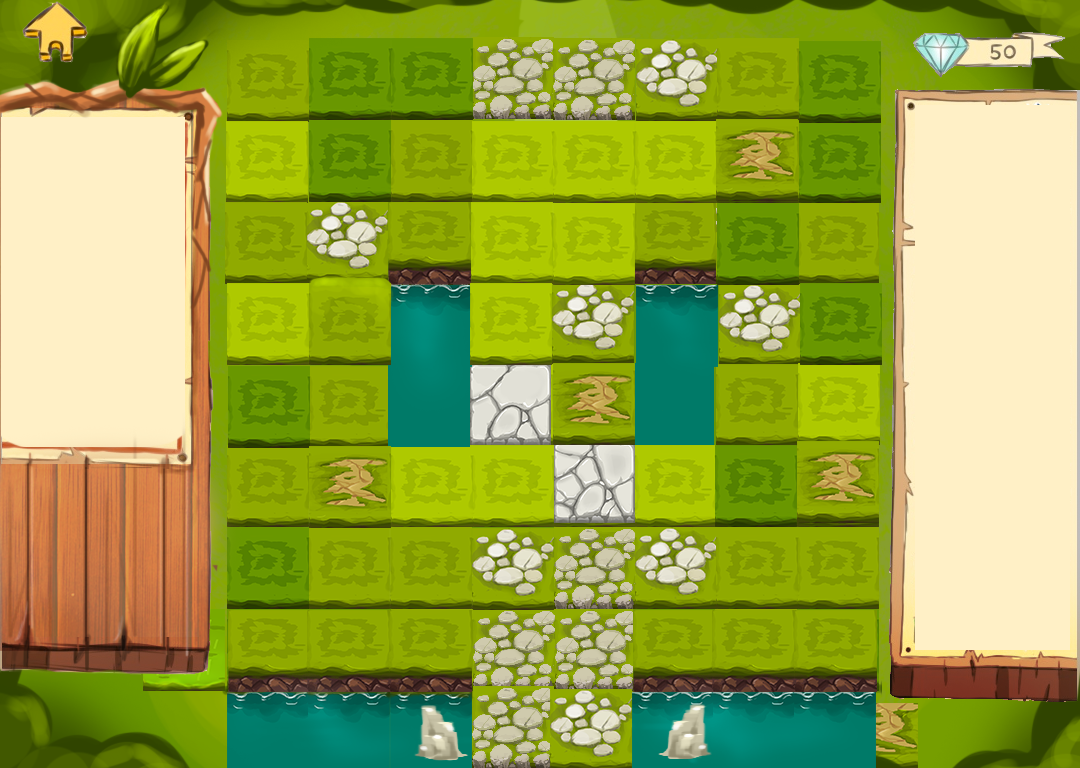
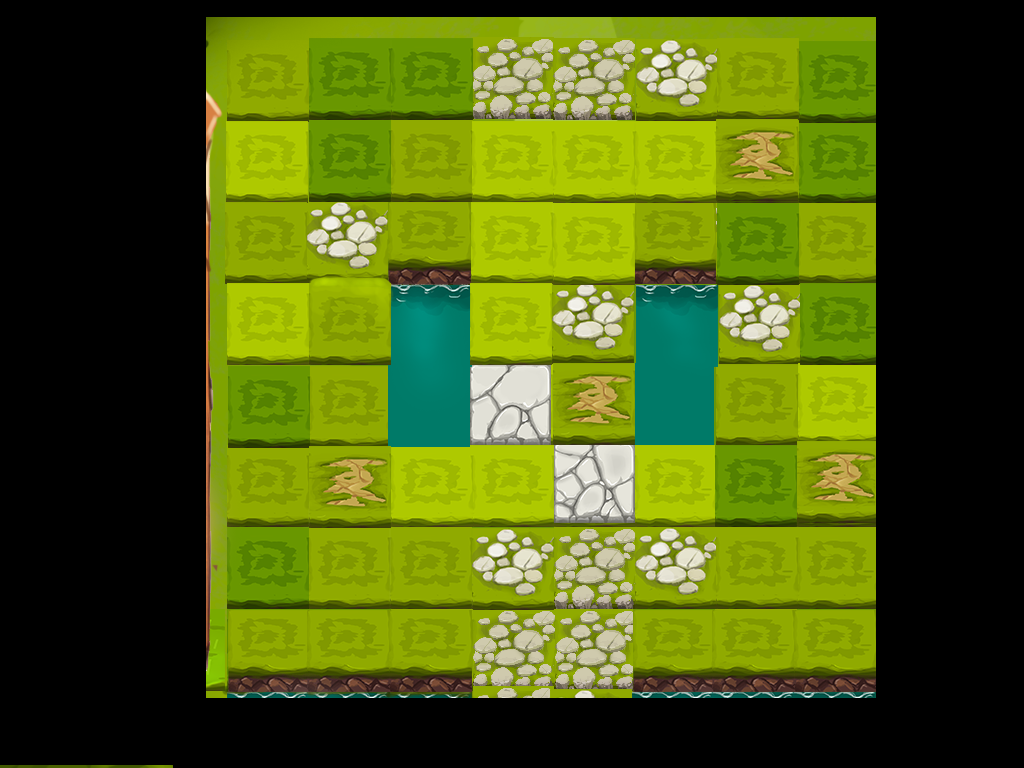
Added backgroudn art, Drag completed

diff --git a/Proeve/States/ArmyEditorState.cs b/Proeve/States/ArmyEditorState.cs
@@ -18,14 +18,29 @@ namespace Proeve.States
     {
         private bool drag;
         private int dragIndex;
+        private E2DTexture background;
+
+        private Point gridLocation;
+        private int gridWidth, gridHeight;
+        private Rectangle GridArea { get { return new Rectangle(gridLocation.X, gridLocation.Y, gridWidth * Globals.TILE_WIDTH, gridHeight * Globals.TILE_HEIGHT); } }
 
         public ArmyEditorState()
         {
-
+            
         }
 
         public override void Initialize()
         {
+            dragIndex = -1;
+            drag = false;
+
+            gridWidth = Globals.GRID_WIDTH;
+            gridHeight = 3;
+
+            gridLocation = new Point(Globals.GridLocation.X, Globals.GridLocation.Y + Globals.TILE_HEIGHT * 5);
+
+            background = ArtAssets.editorBackground;
+
             Armies.army = new List<Character>();
             Armies.army.Add(Armies.GetCharacter(Armies.CharacterRanks.Marshal));
             Armies.army.Add(Armies.GetCharacter(Armies.CharacterRanks.General));
@@ -38,19 +53,16 @@ namespace Proeve.States
             Armies.army.Add(Armies.GetCharacter(Armies.CharacterRanks.Bomb));
             Armies.army.Add(Armies.GetCharacter(Armies.CharacterRanks.Bomb));
 
-            Armies.army[0].Position = Grid.ToPixelLocation(new Point(0, 0), new Point(50, 50), new Point(82, 82)).ToVector2();
-            Armies.army[1].Position = Grid.ToPixelLocation(new Point(1, 0), new Point(50, 50), new Point(82, 82)).ToVector2();
-            Armies.army[2].Position = Grid.ToPixelLocation(new Point(2, 0), new Point(50, 50), new Point(82, 82)).ToVector2();
-            Armies.army[3].Position = Grid.ToPixelLocation(new Point(3, 0), new Point(50, 50), new Point(82, 82)).ToVector2();
-            Armies.army[4].Position = Grid.ToPixelLocation(new Point(4, 0), new Point(50, 50), new Point(82, 82)).ToVector2();
-            Armies.army[5].Position = Grid.ToPixelLocation(new Point(5, 0), new Point(50, 50), new Point(82, 82)).ToVector2();
-            Armies.army[6].Position = Grid.ToPixelLocation(new Point(6, 0), new Point(50, 50), new Point(82, 82)).ToVector2();
-            Armies.army[7].Position = Grid.ToPixelLocation(new Point(7, 0), new Point(50, 50), new Point(82, 82)).ToVector2();
-            Armies.army[8].Position = Grid.ToPixelLocation(new Point(0, 1), new Point(50, 50), new Point(82, 82)).ToVector2();
-            Armies.army[9].Position = Grid.ToPixelLocation(new Point(1, 1), new Point(50, 50), new Point(82, 82)).ToVector2();
-
-            dragIndex = -1;
-            drag = false;
+            Armies.army[0].Position = Grid.ToPixelLocation(new Point(0, 0), gridLocation, Globals.TileDimensions).ToVector2();
+            Armies.army[1].Position = Grid.ToPixelLocation(new Point(1, 0), gridLocation, Globals.TileDimensions).ToVector2();
+            Armies.army[2].Position = Grid.ToPixelLocation(new Point(2, 0), gridLocation, Globals.TileDimensions).ToVector2();
+            Armies.army[3].Position = Grid.ToPixelLocation(new Point(3, 0), gridLocation, Globals.TileDimensions).ToVector2();
+            Armies.army[4].Position = Grid.ToPixelLocation(new Point(4, 0), gridLocation, Globals.TileDimensions).ToVector2();
+            Armies.army[5].Position = Grid.ToPixelLocation(new Point(5, 0), gridLocation, Globals.TileDimensions).ToVector2();
+            Armies.army[6].Position = Grid.ToPixelLocation(new Point(6, 0), gridLocation, Globals.TileDimensions).ToVector2();
+            Armies.army[7].Position = Grid.ToPixelLocation(new Point(7, 0), gridLocation, Globals.TileDimensions).ToVector2();
+            Armies.army[8].Position = Grid.ToPixelLocation(new Point(0, 1), gridLocation, Globals.TileDimensions).ToVector2();
+            Armies.army[9].Position = Grid.ToPixelLocation(new Point(1, 1), gridLocation, Globals.TileDimensions).ToVector2();
         }
 
         public override void Update(GameTime gameTime)
@@ -65,7 +77,27 @@ namespace Proeve.States
 
             if (Globals.mouseState.LeftButtonReleased && drag)
             {
-                Armies.army[dragIndex].Position = Grid.ToGridLocation(Globals.mouseState.Position.ToPoint(), new Point(50, 50), new Point(82, 82)).ToVector2() * (Vector2.One * 82) + (Vector2.One * 50);
+                Vector2 mouseGridPosition = (Grid.ToGridLocation(Globals.mouseState.Position.ToPoint(), gridLocation, Globals.TileDimensions) * Globals.TileDimensions + gridLocation).ToVector2();
+
+                if (GridArea.Contains(mouseGridPosition))
+                {
+                    bool overlap = false;
+
+                    foreach (Character c in Armies.army)
+                        if (c.Position == mouseGridPosition)
+                        {
+                            overlap = true;
+
+                            // Swap drag Character with overlap character
+                            c.Position = Armies.army[dragIndex].Position;
+                            Armies.army[dragIndex].Position = mouseGridPosition;
+
+                            break;
+                        }
+
+                    if (!overlap)
+                        Armies.army[dragIndex].Position = mouseGridPosition;
+                }
 
                 drag = false;
                 dragIndex = -1;
@@ -74,11 +106,7 @@ namespace Proeve.States
 
         public override void Draw(SpriteBatch spriteBatch)
         {
-            for (int y = 0; y < 3; y++)
-                for (int x = 0; x < 8; x++)
-                {
-                    spriteBatch.DrawRectangle(new Vector2(x * 82 + 50, y * 82 + 50), 81, 81, Color.White);
-                }
+            spriteBatch.DrawE2DTexture(background, Vector2.Zero);
 
             foreach(Character c in Armies.army)
             {

diff --git a/Proeve/Resources/ArtAssets.cs b/Proeve/Resources/ArtAssets.cs
@@ -40,6 +40,7 @@ namespace Proeve.Resources
 
         /* BACKGROUND */
         private const string BACKGROUND_GRASS_LEVEL = "environment_placeholder";
+        private const string BACKGROUND_EDITOR = "editorBackground";
 
         #endregion
         #region TEXTURES
@@ -59,7 +60,8 @@ namespace Proeve.Resources
         private static E2DTexture testButtonTexture;
 
         /* BACKGROUNDS */
-        private static E2DTexture backgroundGrassLevel;
+        public static E2DTexture editorBackground;
+        public static E2DTexture backgroundGrassLevel;
 
         #endregion
         #region SPRITES
@@ -114,6 +116,7 @@ namespace Proeve.Resources
             testButtonTexture.Load(UI_PATH, TESTBUTTON);
 
             /* BACKGROUNDS */
+            editorBackground.Load(BACKGROUND_PATH, BACKGROUND_EDITOR);
             backgroundGrassLevel.Load(BACKGROUND_PATH, BACKGROUND_GRASS_LEVEL);
 
             InitializeSprites();

diff --git a/Proeve/Resources/Globals.cs b/Proeve/Resources/Globals.cs
@@ -21,7 +21,12 @@ namespace Proeve.Resources
         public static int coins;
 
         public static Point GridLocation { get { return new Point(228, 40); } }
-        public const int GRID_WIDTH = 82;
-        public const int GRID_HEIGHT = 82;
+        public static Point TileDimensions { get { return new Point(TILE_WIDTH, TILE_HEIGHT); } }
+
+        public const int TILE_WIDTH = 82;
+        public const int TILE_HEIGHT = 82;
+
+        public const int GRID_WIDTH = 8;
+        public const int GRID_HEIGHT = 8;
     }
 }

diff --git a/Proeve/Main.cs b/Proeve/Main.cs
@@ -20,6 +20,9 @@ namespace Proeve
             Content.RootDirectory = "Content";
             Window.Title = "Proeve";
 
+            WindowWidth = 1024;
+            WindowHeight = 768;
+
             IsMouseVisible = true;
             backgroundColor = Color.Black;
         }
